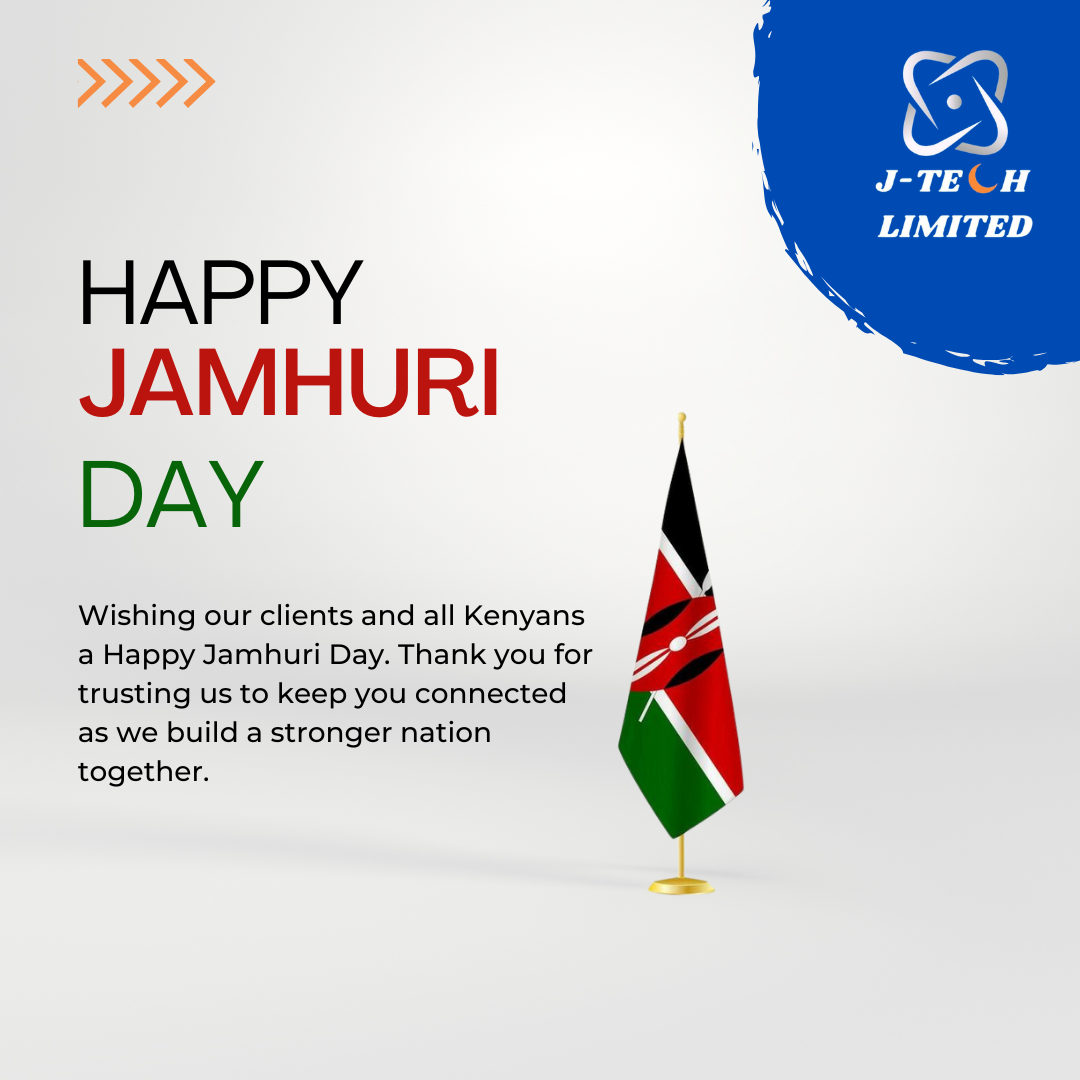
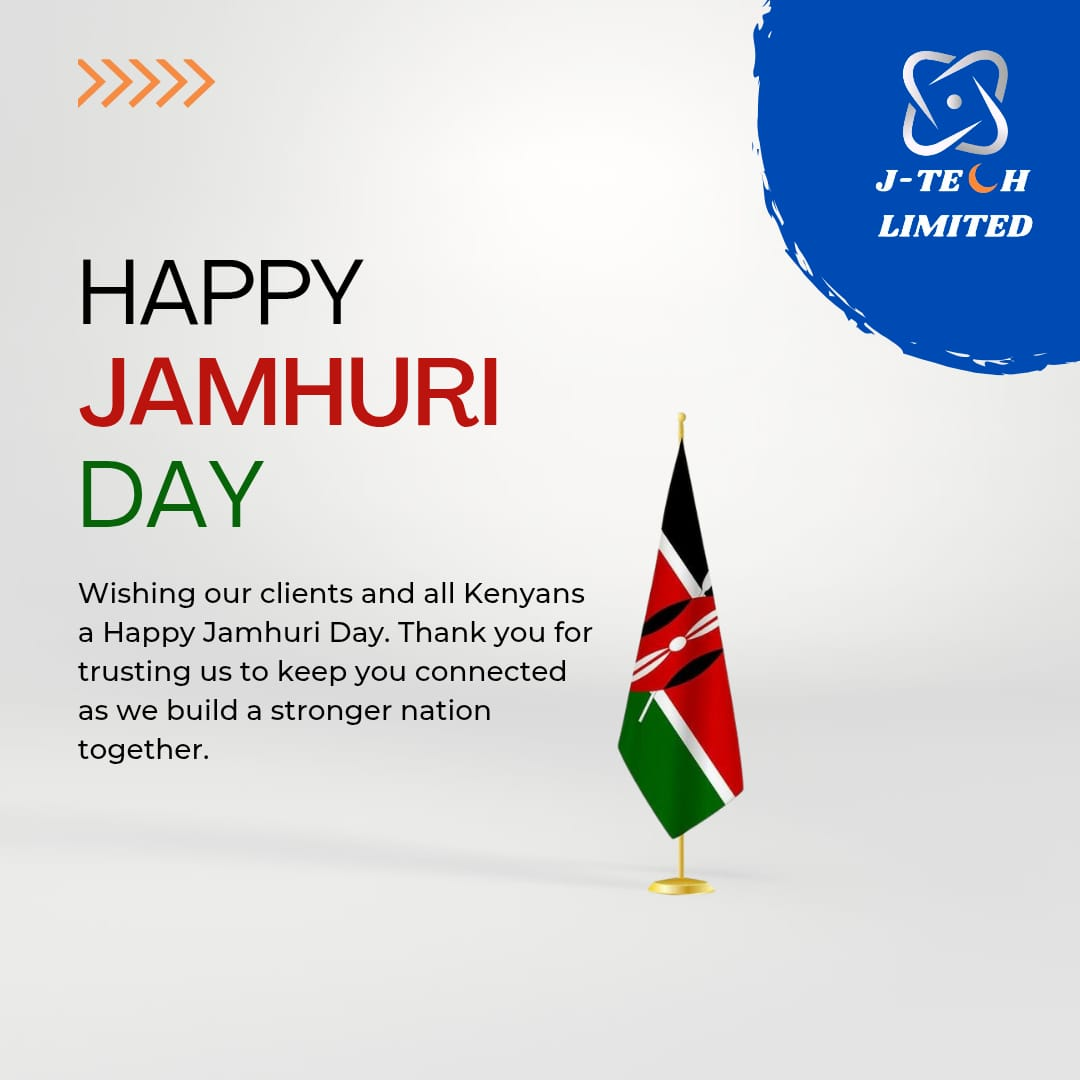
portfolio addition

diff --git a/portfolio.html b/portfolio.html
@@ -803,7 +803,7 @@
                     Business Cards
                 </button>
                 <button class="filter-btn px-6 py-3 rounded-full border-2 border-gray-300 text-gray-700 font-semibold hover:border-indigo-500" data-category="merchandise">
-                    Corporate Merchandise
+                    Corporate Branding
                 </button>
                 <button class="filter-btn px-6 py-3 rounded-full border-2 border-gray-300 text-gray-700 font-semibold hover:border-indigo-500" data-category="flyers">
                     Flyers & Brochures
@@ -938,7 +938,7 @@
                 <!-- Banner Projects -->
                 <div class="portfolio-item bg-white rounded-lg shadow-lg fade-in" data-category="banners" data-title="DigiskoolSTEM Roll Up Banner" data-description="Professional roll-up banner design for education and training center with modern layout and clear messaging">
                     <div class="relative w-full h-full bg-gray-100 flex items-center justify-center">
[2 lines of base64/hex data omitted]
                         <div class="category-badge">Banners</div>
                     </div>
                 </div>
@@ -1024,7 +1024,7 @@
                 <!-- Business Card Projects -->
                 <div class="portfolio-item bg-white rounded-lg shadow-lg fade-in" data-category="business-cards" data-title="Chef Pete Business Card" data-description="Professional business card design for chef with elegant typography and culinary-inspired elements">
                     <div class="relative w-full h-full bg-gray-100 flex items-center justify-center">
[2 lines of base64/hex data omitted]
                         <div class="category-badge">Business Cards</div>
                     </div>
                 </div>
@@ -1083,12 +1083,40 @@
                 <!-- Merchandise Projects -->
                 <div class="portfolio-item bg-white rounded-lg shadow-lg fade-in" data-category="merchandise">
                     <div class="relative">
[2 lines of base64/hex data omitted]
                         <div class="category-badge">Merchandise</div>
                         <div class="portfolio-overlay">
                             <div>
-                                <h3 class="text-xl font-bold mb-2">Branded Cup</h3>
+                                <h3 class="text-xl font-bold mb-2">Branded Polo</h3>
                                 <p class="text-sm">Corporate merchandise</p>
+                            </div>
+                        </div>
+                    </div>
+                </div>
+
+                
+                <div class="portfolio-item bg-white rounded-lg shadow-lg fade-in" data-category="merchandise">
+                    <div class="relative">
[1 lines of base64/hex data omitted]
+                        <div class="category-badge">Merchandise</div>
+                        <div class="portfolio-overlay">
+                            <div>
+                                <h3 class="text-xl font-bold mb-2">Black Hoodie</h3>
+                                <p class="text-sm">Branded merchandise</p>
+                            </div>
+                        </div>
+                    </div>
+                </div>
+
+                
+                <div class="portfolio-item bg-white rounded-lg shadow-lg fade-in" data-category="merchandise">
+                    <div class="relative">
[1 lines of base64/hex data omitted]
+                        <div class="category-badge">Merchandise</div>
+                        <div class="portfolio-overlay">
+                            <div>
+                                <h3 class="text-xl font-bold mb-2">Branded Gift Bag</h3>
+                                <p class="text-sm">Branded merchandise</p>
                             </div>
                         </div>
                     </div>
@@ -1123,7 +1151,7 @@
                 <div class="portfolio-item bg-white rounded-lg shadow-lg fade-in" data-category="merchandise">
                     <div class="relative">
[1 lines of base64/hex data omitted]
-                        <div class="category-badge">Merchandise</div>
+                        <div class="category-badge">Branding</div>
                         <div class="portfolio-overlay">
                             <div>
                                 <h3 class="text-xl font-bold mb-2">Front Office Graphic</h3>
@@ -1136,7 +1164,7 @@
                 <div class="portfolio-item bg-white rounded-lg shadow-lg fade-in" data-category="merchandise">
                     <div class="relative">
[1 lines of base64/hex data omitted]
-                        <div class="category-badge">Merchandise</div>
+                        <div class="category-badge">Branding</div>
                         <div class="portfolio-overlay">
                             <div>
                                 <h3 class="text-xl font-bold mb-2">Office Sign</h3>
@@ -1257,7 +1285,7 @@
                         <div class="category-badge">Merchandise</div>
                         <div class="portfolio-overlay">
                             <div>
-                                <h3 class="text-xl font-bold mb-2">Tote Bag Design</h3>
+                                <h3 class="text-xl font-bold mb-2">Hoodie Design</h3>
                                 <p class="text-sm">Branded merchandise</p>
                             </div>
                         </div>
@@ -1268,11 +1296,11 @@
 
                 <div class="portfolio-item bg-white rounded-lg shadow-lg fade-in" data-category="merchandise">
                     <div class="relative">
[2 lines of base64/hex data omitted]
                         <div class="category-badge">Merchandise</div>
                         <div class="portfolio-overlay">
                             <div>
-                                <h3 class="text-xl font-bold mb-2">T-shirt Design</h3>
+                                <h3 class="text-xl font-bold mb-2">Branded Hoodie</h3>
                                 <p class="text-sm">Branded merchandise</p>
                             </div>
                         </div>
@@ -1282,30 +1310,17 @@
                 <div class="portfolio-item bg-white rounded-lg shadow-lg fade-in" data-category="merchandise">
                     <div class="relative">
[1 lines of base64/hex data omitted]
-                        <div class="category-badge">Merchandise</div>
+                        <div class="category-badge">Branding</div>
                         <div class="portfolio-overlay">
                             <div>
-                                <h3 class="text-xl font-bold mb-2">Tote Bag Design</h3>
+                                <h3 class="text-xl font-bold mb-2">Company Profile Design</h3>
                                 <p class="text-sm">Branded merchandise</p>
                             </div>
                         </div>
                     </div>
                 </div>
 
-                <div class="portfolio-item bg-white rounded-lg shadow-lg fade-in" data-category="merchandise">
-                    <div class="relative">
[1 lines of base64/hex data omitted]
-                        <div class="category-badge">Merchandise</div>
-                        <div class="portfolio-overlay">
-                            <div>
-                                <h3 class="text-xl font-bold mb-2">Tote Bag Design</h3>
-                                <p class="text-sm">Branded merchandise</p>
-                            </div>
-                        </div>
-                    </div>
-                </div>
-
-                
+                               
                 <div class="portfolio-item bg-white rounded-lg shadow-lg fade-in" data-category="merchandise">
                     <div class="relative">
[1 lines of base64/hex data omitted]
@@ -1361,10 +1376,10 @@
                 <div class="portfolio-item bg-white rounded-lg shadow-lg fade-in" data-category="merchandise">
                     <div class="relative">
[1 lines of base64/hex data omitted]
-                        <div class="category-badge">Merchandise</div>
+                        <div class="category-badge">Branding</div>
                         <div class="portfolio-overlay">
                             <div>
-                                <h3 class="text-xl font-bold mb-2">Tote Bag Design</h3>
+                                <h3 class="text-xl font-bold mb-2">Company Profile Design</h3>
                                 <p class="text-sm">Branded merchandise</p>
                             </div>
                         </div>
@@ -1504,6 +1519,33 @@
                     </div>
                 </div>
 
+                
+                <div class="portfolio-item bg-white rounded-lg shadow-lg fade-in" data-category="social-media">
+                    <div class="relative">
[1 lines of base64/hex data omitted]
+                        <div class="category-badge">Social Media</div>
+                        <div class="portfolio-overlay">
+                            <div>
+                                <h3 class="text-xl font-bold mb-2">Jamhuri Day</h3>
+                                <p class="text-sm">Digital marketing graphics</p>
+                            </div>
+                        </div>
+                    </div>
+                </div>
+
+                 <div class="portfolio-item bg-white rounded-lg shadow-lg fade-in" data-category="social-media">
+                    <div class="relative">
[1 lines of base64/hex data omitted]
+                        <div class="category-badge">Social Media</div>
+                        <div class="portfolio-overlay">
+                            <div>
+                                <h3 class="text-xl font-bold mb-2">Jamhuri Day</h3>
+                                <p class="text-sm">Digital marketing graphics</p>
+                            </div>
+                        </div>
+                    </div>
+                </div>
+
                 <div class="portfolio-item bg-white rounded-lg shadow-lg fade-in" data-category="social-media">
                     <div class="relative">
[1 lines of base64/hex data omitted]
@@ -1516,6 +1558,7 @@
                         </div>
                     </div>
                 </div>
+
 
                 <div class="portfolio-item bg-white rounded-lg shadow-lg fade-in" data-category="social-media">
                     <div class="relative">
